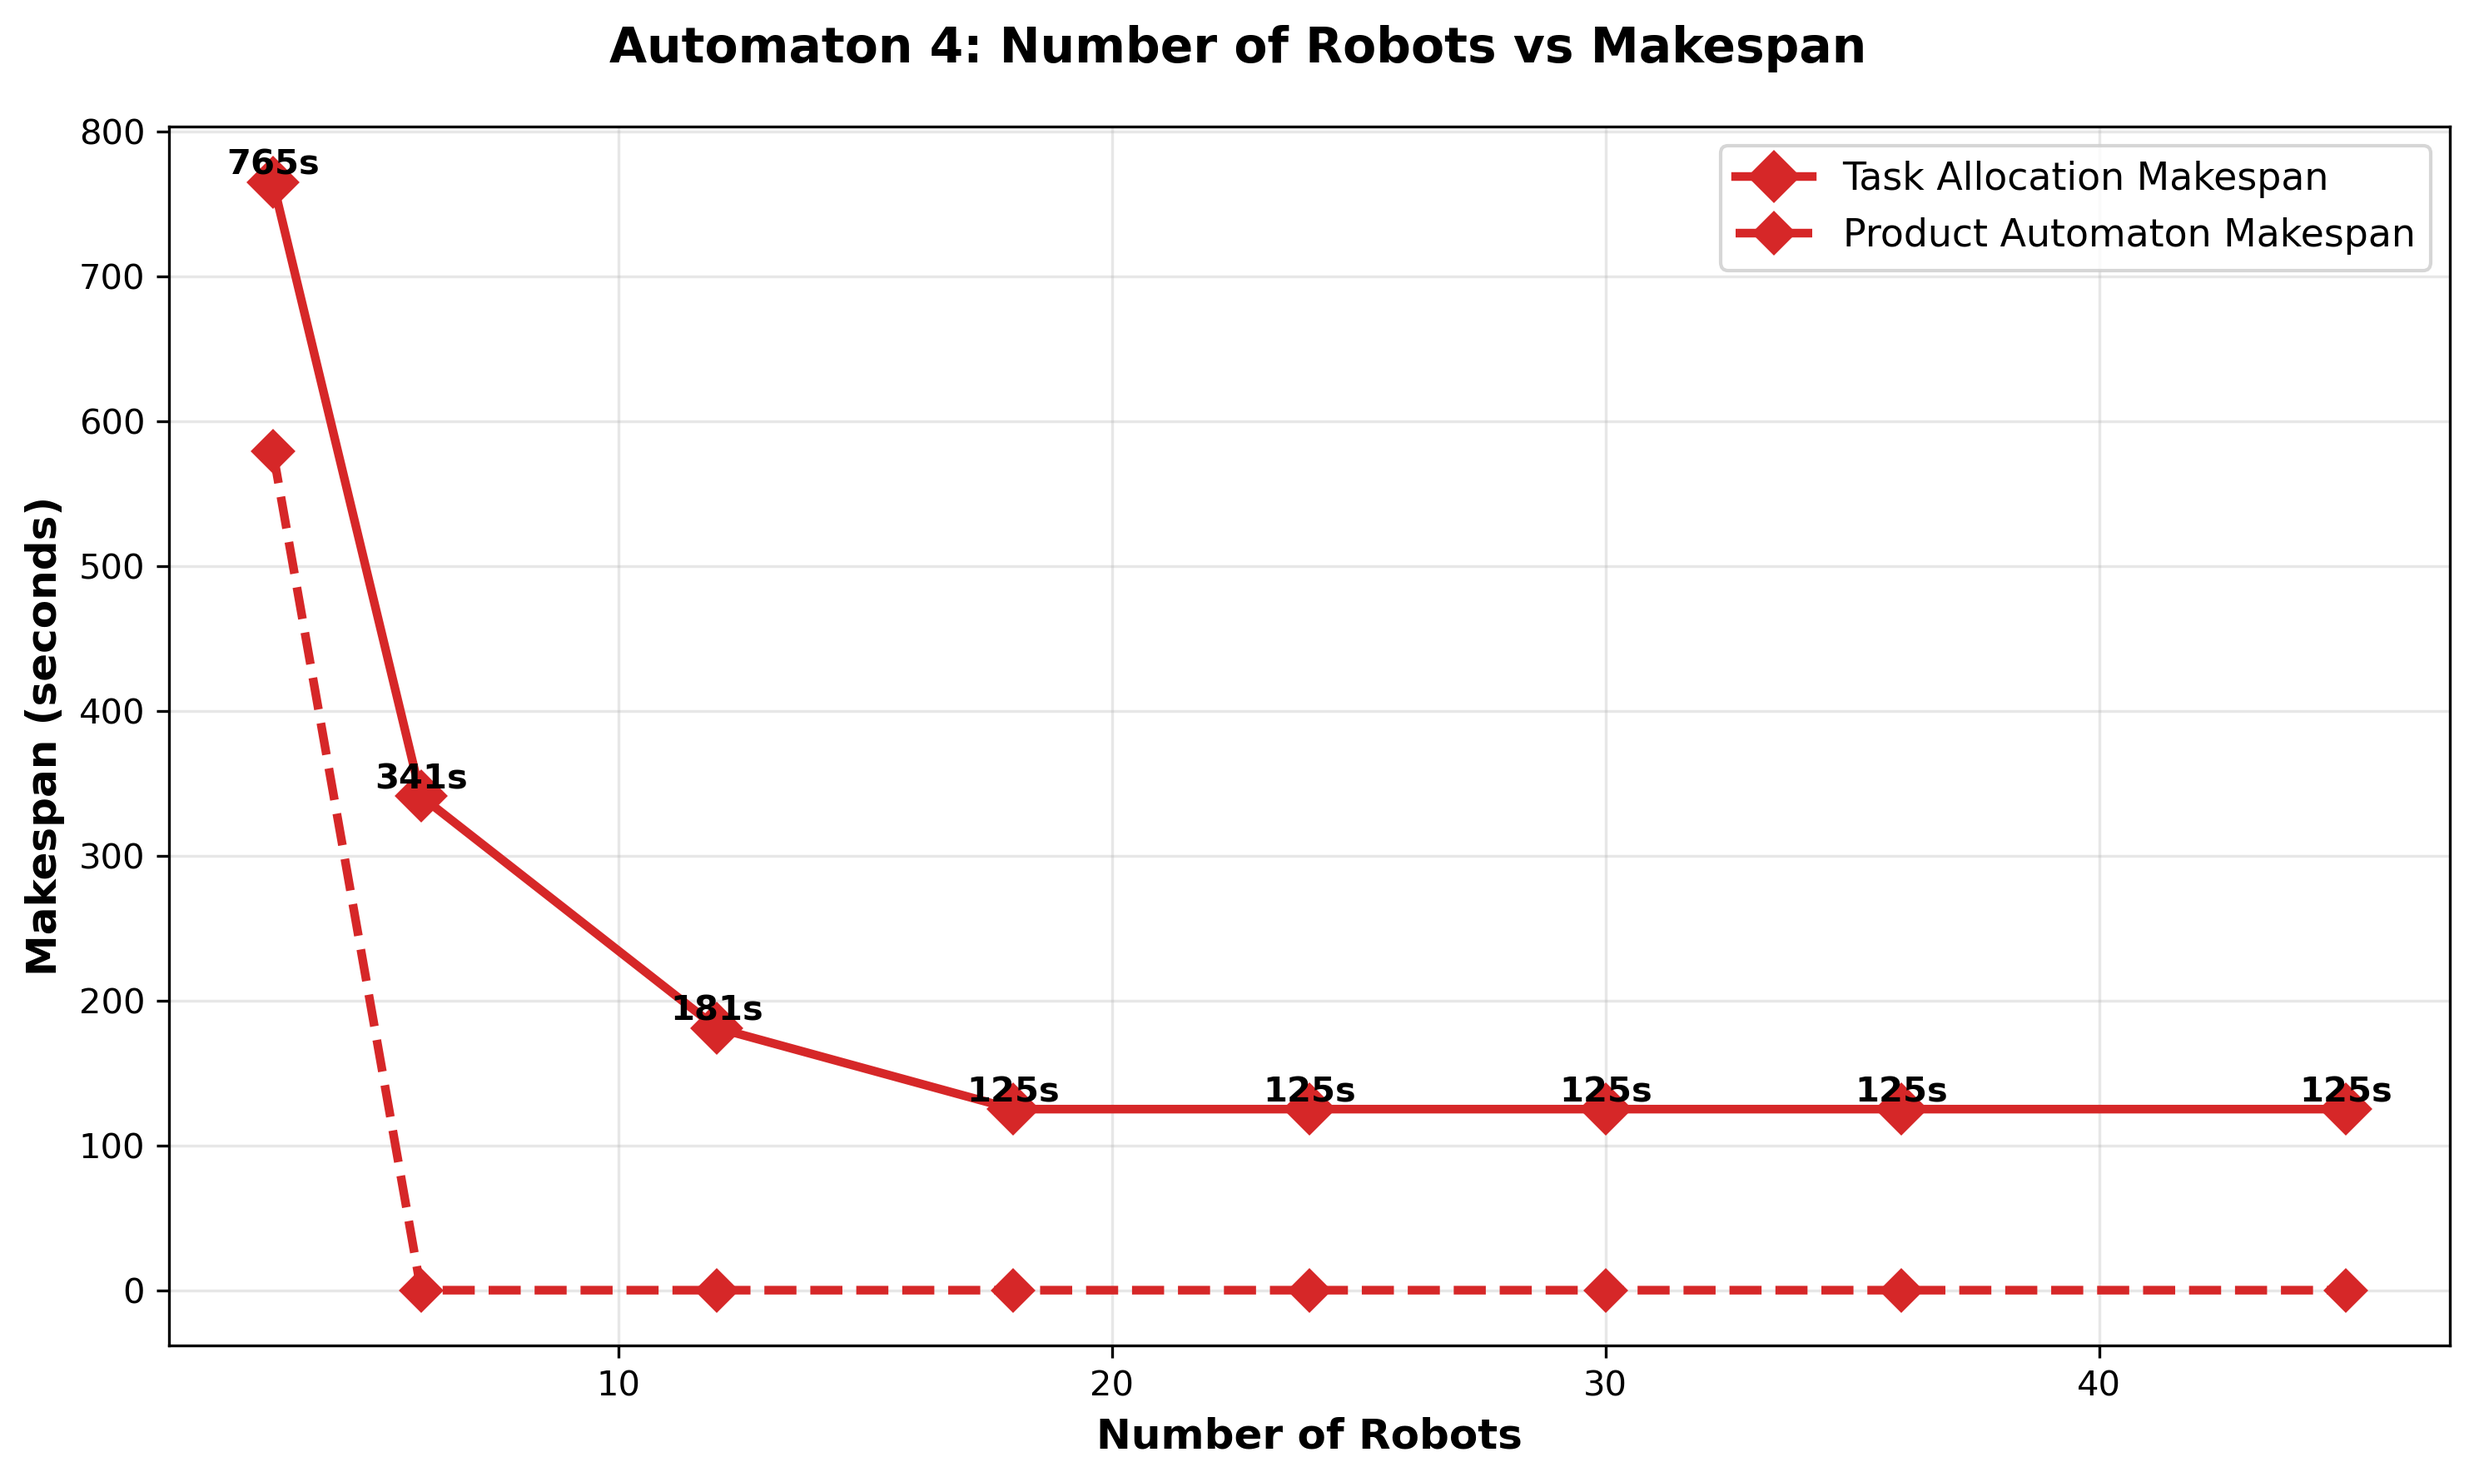
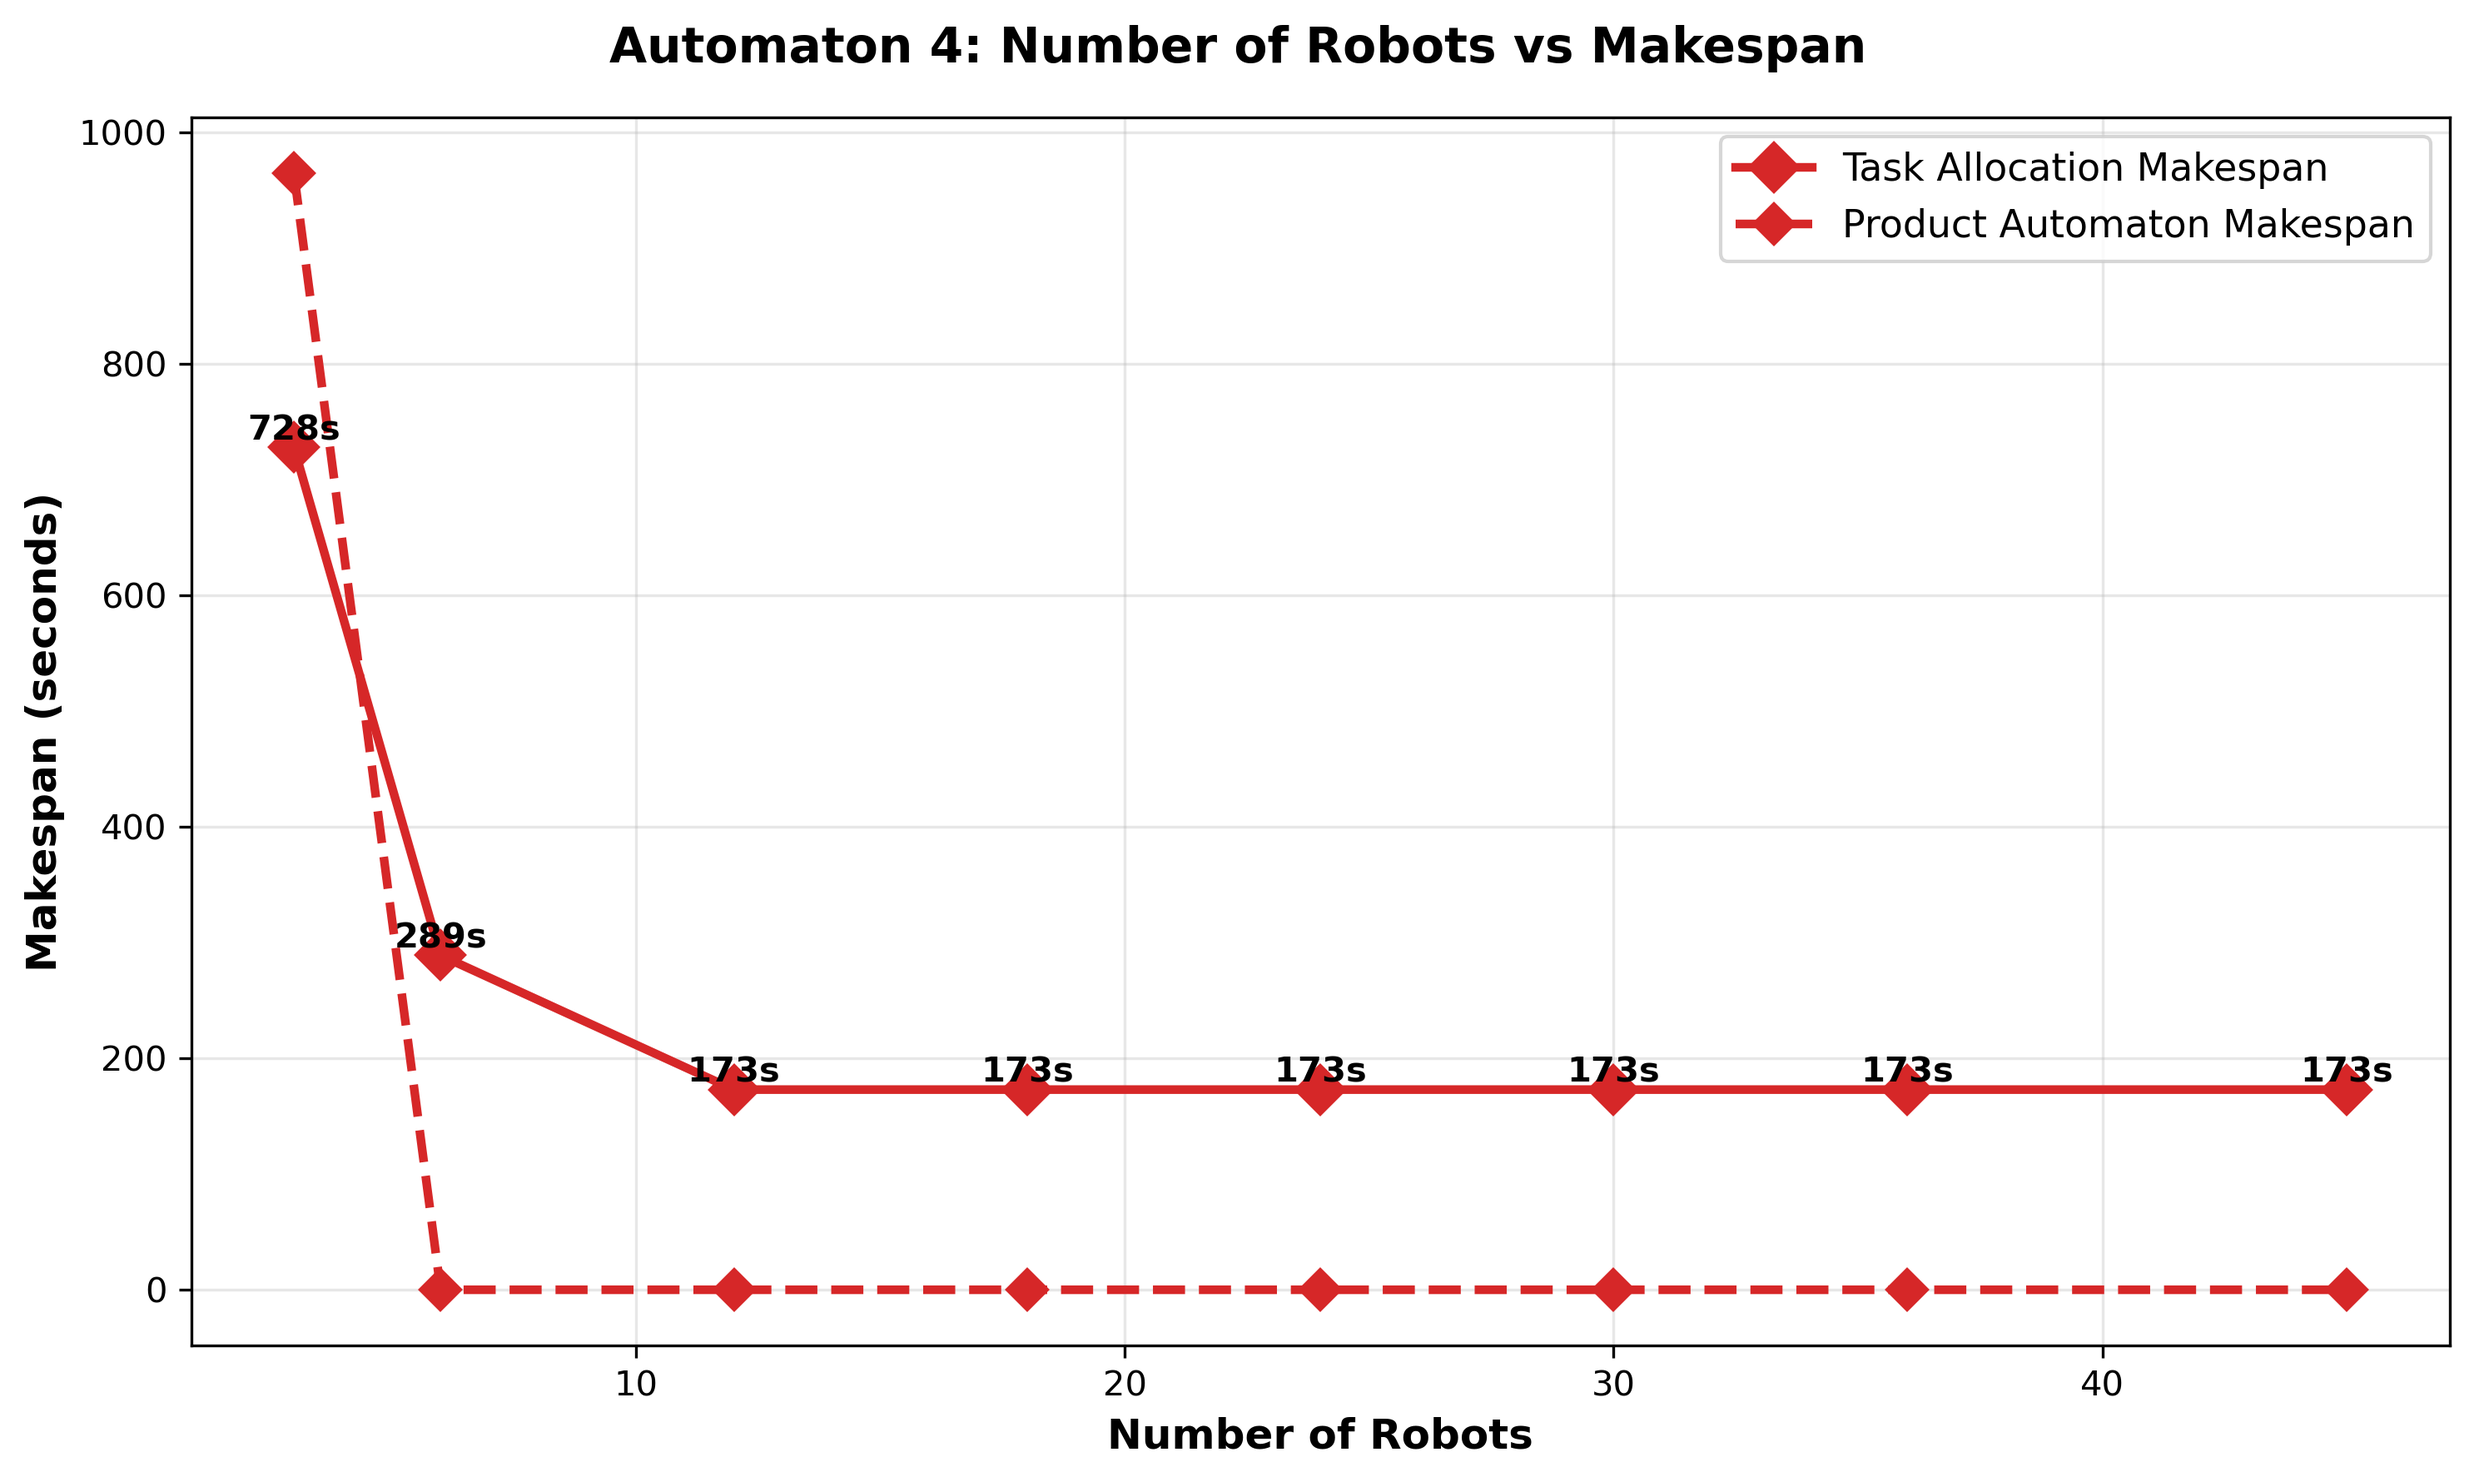
Changed the average_capabilities and robot_homogeneity tests and how they are plotted to be more organized

diff --git a/MCTB-PDT/organizedtests/number_robots/test_number_robots.cpp b/MCTB-PDT/organizedtests/number_robots/test_number_robots.cpp
@@ -475,8 +475,8 @@ void createTestEnvironment6(TS*& ts, GridWorld*& grid, Environment*& env, MultiR
     for (int i = 1; i <= 6; i++) {
         int col = (i - 1) % 3;  // 0-2 horizontal
         int row = (i - 1) / 3;  // 0-4 vertical
-        int x = 160 + col;
-        int y = 80 + row;
+        int x = 180 + col;
+        int y = 140 + row;
         
         // Rotate capabilities: GPS, MOVEMENT_GROUND, SENSOR_CAMERA
         RobotCapability cap = (i % 3 == 1) ? RobotCapability::SENSOR_GPS : 
@@ -555,8 +555,8 @@ void createTestEnvironment3(TS*& ts, GridWorld*& grid, Environment*& env, MultiR
     for (int i = 1; i <= 3; i++) {
         int col = (i - 1) % 3;  // 0-2 horizontal
         int row = (i - 1) / 3;  // 0 vertical
-        int x = 160 + col;
-        int y = 80 + row;
+        int x = 180 + col;
+        int y = 140 + row;
         
         // Rotate capabilities: GPS, MOVEMENT_GROUND, SENSOR_CAMERA
         RobotCapability cap = (i % 3 == 1) ? RobotCapability::SENSOR_GPS : 
@@ -636,8 +636,8 @@ void createTestEnvironment12(TS*& ts, GridWorld*& grid, Environment*& env, Multi
     for (int i = 1; i <= 12; i++) {
         int col = (i - 1) % 3;  // 0-2 horizontal
         int row = (i - 1) / 3;  // 0-4 vertical
-        int x = 160 + col;
-        int y = 80 + row;
+        int x = 180 + col;
+        int y = 140 + row;
         
         // Rotate capabilities: GPS, MOVEMENT_GROUND, SENSOR_CAMERA
         RobotCapability cap = (i % 3 == 1) ? RobotCapability::SENSOR_GPS : 
@@ -718,8 +718,8 @@ void createTestEnvironment45(TS*& ts, GridWorld*& grid, Environment*& env, Multi
     for (int i = 1; i <= 45; i++) {
         int col = (i - 1) % 3;  // 0-2 horizontal
         int row = (i - 1) / 3;  // 0-14 vertical
-        int x = 160 + col;
-        int y = 80 + row;
+        int x = 180 + col;
+        int y = 140 + row;
         
         // Rotate capabilities: GPS, MOVEMENT_GROUND, SENSOR_CAMERA
         RobotCapability cap = (i % 3 == 1) ? RobotCapability::SENSOR_GPS : 
@@ -770,7 +770,7 @@ void createTestEnvironment18(TS*& ts, GridWorld*& grid, Environment*& env, Multi
         RobotCapability cap = (i % 3 == 1) ? RobotCapability::SENSOR_GPS : 
                               (i % 3 == 2) ? RobotCapability::MOVEMENT_GROUND : 
                               RobotCapability::SENSOR_CAMERA;
-        Robot* r = new Robot(i, "Rover_" + to_string(i), Point(160 + col, 80 + row));
+        Robot* r = new Robot(i, "Rover_" + to_string(i), Point(180 + col, 140 + row));
         r->initializeCapabilities(13);
         r->enableCapability(cap);
         mrs->addRobot(r);
@@ -813,7 +813,7 @@ void createTestEnvironment24(TS*& ts, GridWorld*& grid, Environment*& env, Multi
         RobotCapability cap = (i % 3 == 1) ? RobotCapability::SENSOR_GPS : 
                               (i % 3 == 2) ? RobotCapability::MOVEMENT_GROUND : 
                               RobotCapability::SENSOR_CAMERA;
-        Robot* r = new Robot(i, "Rover_" + to_string(i), Point(160 + col, 80 + row));
+        Robot* r = new Robot(i, "Rover_" + to_string(i), Point(180 + col, 140 + row));
         r->initializeCapabilities(13);
         r->enableCapability(cap);
         mrs->addRobot(r);
@@ -856,7 +856,7 @@ void createTestEnvironment30(TS*& ts, GridWorld*& grid, Environment*& env, Multi
         RobotCapability cap = (i % 3 == 1) ? RobotCapability::SENSOR_GPS : 
                               (i % 3 == 2) ? RobotCapability::MOVEMENT_GROUND : 
                               RobotCapability::SENSOR_CAMERA;
-        Robot* r = new Robot(i, "Rover_" + to_string(i), Point(160 + col, 80 + row));
+        Robot* r = new Robot(i, "Rover_" + to_string(i), Point(180 + col, 140 + row));
         r->initializeCapabilities(13);
         r->enableCapability(cap);
         mrs->addRobot(r);
@@ -899,7 +899,7 @@ void createTestEnvironment36(TS*& ts, GridWorld*& grid, Environment*& env, Multi
         RobotCapability cap = (i % 3 == 1) ? RobotCapability::SENSOR_GPS : 
                               (i % 3 == 2) ? RobotCapability::MOVEMENT_GROUND : 
                               RobotCapability::SENSOR_CAMERA;
-        Robot* r = new Robot(i, "Rover_" + to_string(i), Point(160 + col, 80 + row));
+        Robot* r = new Robot(i, "Rover_" + to_string(i), Point(180 + col, 140 + row));
         r->initializeCapabilities(13);
         r->enableCapability(cap);
         mrs->addRobot(r);

diff --git a/MCTB-PDT/organizedtests/number_robots/plot_number_robots.py b/MCTB-PDT/organizedtests/number_robots/plot_number_robots.py
@@ -10,6 +10,20 @@ import os
 import glob
 import csv
 
+# Helper function to filter product makespans
+def filter_product_makespans(product_makespans, makespans, threshold=2.0):
+    """
+    Filter product makespans to only plot values that are <= threshold * tree makespan
+    Returns a list with invalid values replaced with None (matplotlib will skip them)
+    """
+    filtered = []
+    for pm, tm in zip(product_makespans, makespans):
+        if pm > 0 and tm > 0 and pm > threshold * tm:
+            filtered.append(None)  # Skip astronomical values
+        else:
+            filtered.append(pm)
+    return filtered
+
 # Create Plots directory if it doesn't exist
 os.makedirs('Plots', exist_ok=True)
 
@@ -101,9 +115,10 @@ for automaton_id in sorted(automaton_data.keys()):
              linewidth=2.5, color=colors[automaton_id-1], 
              label=f'Automaton {automaton_id} (Task Allocation)')
     
-    # Add product makespan overlay if non-zero values exist
-    if any(pm > 0 for pm in data['product_makespans']):
-        ax2.plot(data['robot_counts'], data['product_makespans'], 
+    # Add product makespan overlay if non-zero values exist (only if within 2x tree makespan)
+    filtered_product_makespans = filter_product_makespans(data['product_makespans'], data['makespans'])
+    if any(pm is not None and pm > 0 for pm in filtered_product_makespans):
+        ax2.plot(data['robot_counts'], filtered_product_makespans, 
                 marker=markers[automaton_id-1], markersize=6, 
                 linewidth=2.5, color=colors[automaton_id-1], linestyle='--',
                 label=f'Automaton {automaton_id} (Product)')
@@ -163,9 +178,10 @@ for automaton_id in sorted(automaton_data.keys()):
                 linewidth=2.5, color=colors[automaton_id-1], 
                 label='Task Allocation Makespan')
         
-        # Add product makespan overlay if non-zero values exist
-        if any(pm > 0 for pm in data['product_makespans']):
-            ax.plot(data['robot_counts'], data['product_makespans'], 
+        # Add product makespan overlay if non-zero values exist (only if within 2x tree makespan)
+        filtered_product_makespans = filter_product_makespans(data['product_makespans'], data['makespans'])
+        if any(pm is not None and pm > 0 for pm in filtered_product_makespans):
+            ax.plot(data['robot_counts'], filtered_product_makespans, 
                     marker='D', markersize=8, 
                     linewidth=2.5, color='#d62728', linestyle='--',
                     label='Product Automaton Makespan')
